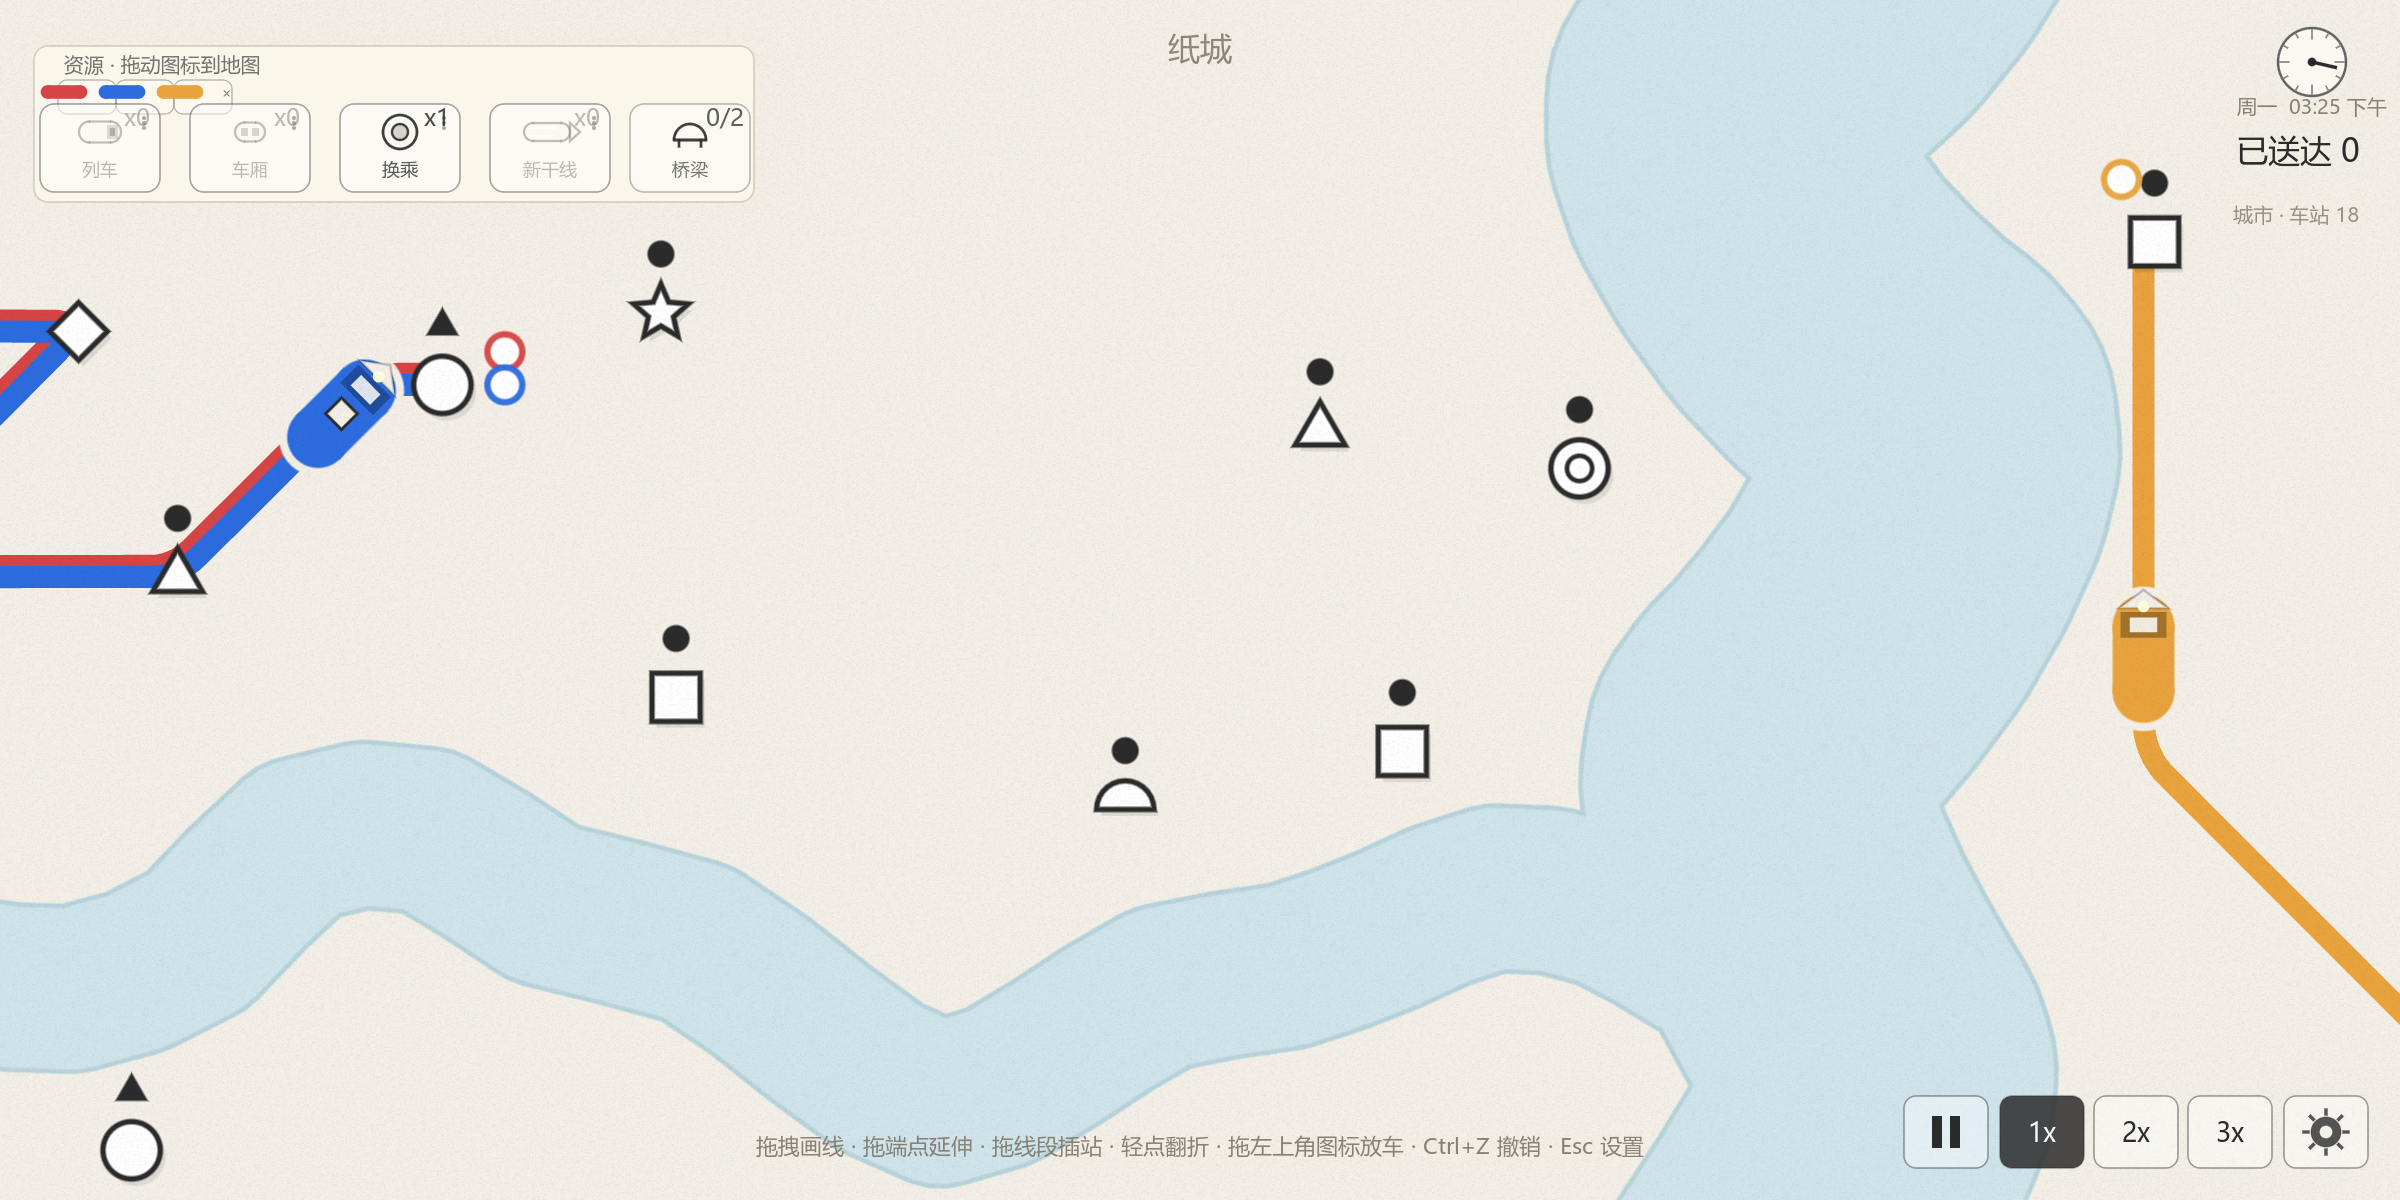
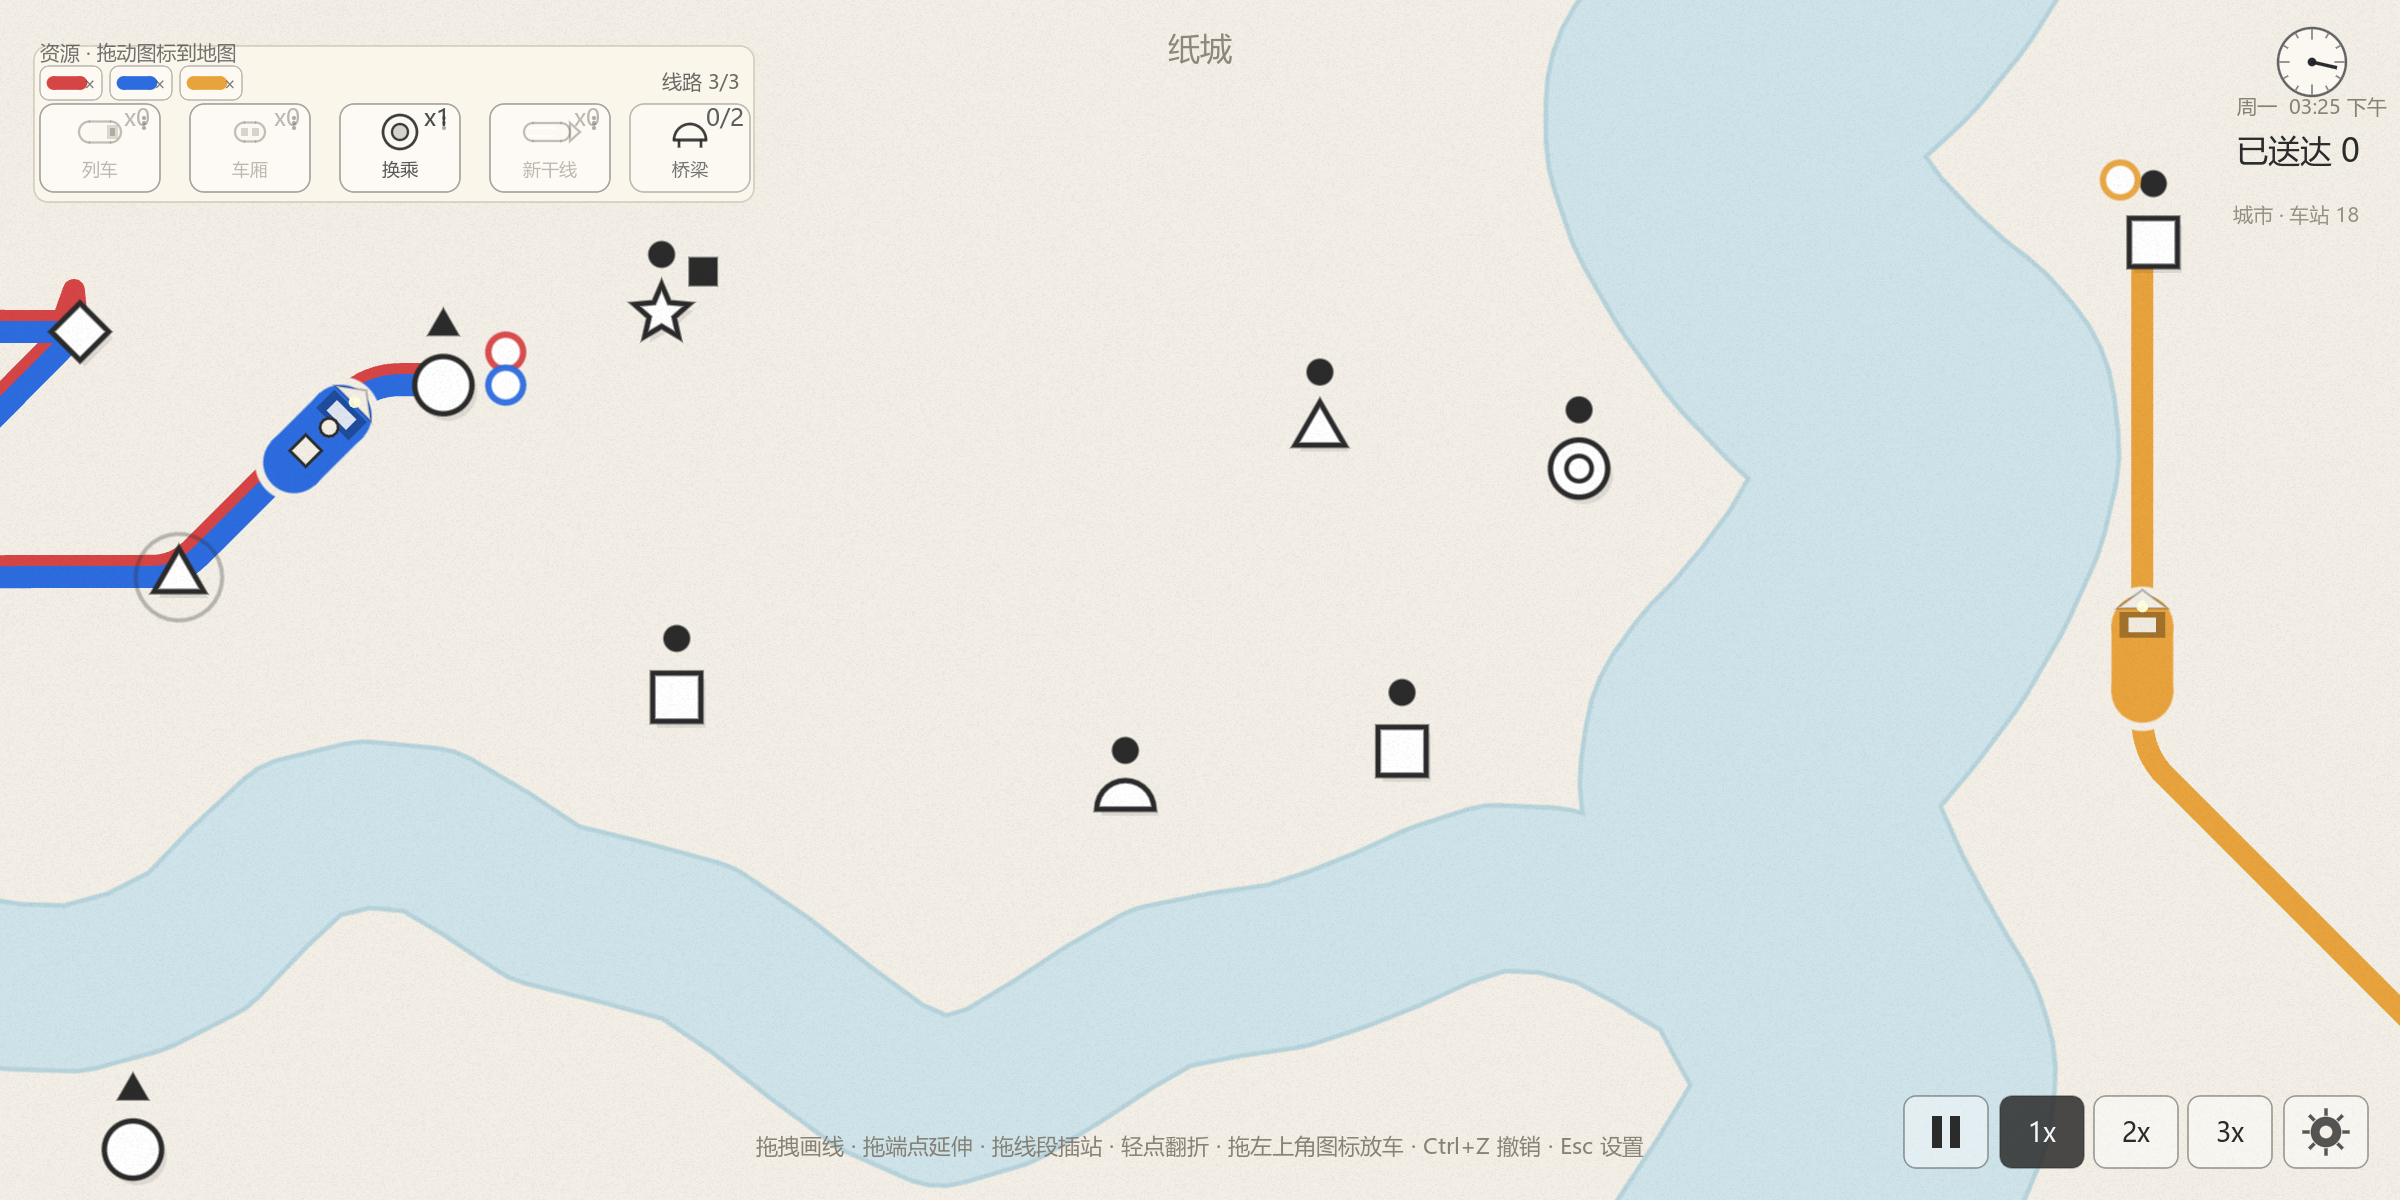
Keep offset line geometry strictly horizontal/vertical/45°
- Root cause: offset_points used the averaged vertex normal, so an L corner was
  pushed diagonally and the adjoining segments became slightly off-octilinear.
- Replace it with a proper miter intersection of the two adjacent offset lines;
  this keeps every offset segment parallel to its source segment (and endpoints
  on the normal). Closed loops still wrap.
- Added checks that left/right offset polylines remain octilinear. 846 checks;
  APK re-exported.

diff --git a/README.md b/README.md
@@ -111,7 +111,7 @@
 - **环线闭合段**：环线末站→首站的那一段也可以拖动、轻点翻转、拖入新站，或拖到端点站停留 0.8s 移出
 - **选中线路高亮**：正在画线/拖线段/重排某条线路时，该线所有车站都会用这条线的颜色描边，方便确认改的是哪条线
 - **环线双向行驶**：把车拖到环线上时，按“最近的站台”决定顺时针或逆时针；到达后保持该方向绕环，不再强制所有车同向
-- **重叠线路错开**：多条线走同一段时，每条线按线号沿法线横向错开约 6px；列车、车厢、端点手柄也跟随错开，末端圆形手柄额外加大错位，避免全部叠在一起
+- **重叠线路错开**：多条线走同一段时，每条线按线号沿法线横向错开约 6px；折点用两条偏移线的斜接交点，偏移后仍然只有水平 / 竖直 / 45°，不会出现轻微歪斜；列车、车厢、端点手柄也跟随错开，末端圆形手柄额外加大错位，避免全部叠在一起
 - **新站避边**：新车站生成区域在相机可见范围基础上再向内收缩（屏幕左右约 140px、底部约 90px），不再贴着屏幕/地图边缘生成
 - **夜晚地面变暗、河流不变色**：入夜后地面和地图外桌面变为深灰，河流保持白天的浅蓝色；HUD、线路、列车保持原色；地图名、时间、分数、底部提示在夜间自动切成浅色文字
 
@@ -392,7 +392,7 @@ $godot = "D:\Downloads\06_游戏与Flash资源\Godot_v4.7.2-stable_win64.exe\God
 ```powershell
 $godot = "D:\Downloads\06_游戏与Flash资源\Godot_v4.7.2-stable_win64.exe\Godot_v4.7.2-stable_win64_console.exe"
 & $godot --headless --path . --script res://tests/run_tests.gd
-# 期望输出：TESTS PASSED (844 checks)
+# 期望输出：TESTS PASSED (846 checks)
 ```
 
 覆盖：八向几何与弯曲翻转、弧长采样、网络增删、画线/撤销/重排/翻转/插站/停留移除手势、换乘寻路、
@@ -509,7 +509,7 @@ view/                     表现层（Node2D，只读模型）
 input/line_editor.gd      画线手势状态机（IDLE / DRAFT / REORDER / SEGMENT）+ Esc 设置信号
 ui/hud.gd                 资源/分数、周抽卡、换乘点选、模式菜单、暂停设置、结束遮罩（双语）
 tools/demo_setup.gd       截图用确定性布局
-tests/                    headless 测试（844 checks）
+tests/                    headless 测试（846 checks）
 export_presets.cfg        Windows Desktop 导出预设
 art/shaders/paper_grain.gdshader  极轻纸纹
 docs/设计方案.md           完整实现方案（机制拆解 / 架构 / 里程碑）

diff --git a/docs/设计方案.md b/docs/设计方案.md
@@ -21,7 +21,7 @@
 > **城镇五阶段发展（开局固定 3 站，形状逐步解锁、相机 2.0→1.0）**、**2400×1200 窗口/大地图与更多水系**、
 > 列车放大 1.5 倍并绘制车头、可点击倍速、
 > **初始 3 条 / 上限 7 条线路**、**闭合环线（列车单向循环、接缝处首末手柄分开）**、
-> 存档与设置、中英双语、Windows 导出、地图编辑器（自由画河/分享码）、Android APK 导出、Supabase 云端排行榜/每日挑战/地图大厅。headless 测试 844 checks 全通过，截图见 `docs/images/`。
+> 存档与设置、中英双语、Windows 导出、地图编辑器（自由画河/分享码）、Android APK 导出、Supabase 云端排行榜/每日挑战/地图大厅。headless 测试 846 checks 全通过，截图见 `docs/images/`。
 > 运行/测试/导出说明见 [README](../README.md)。
 
 ---
